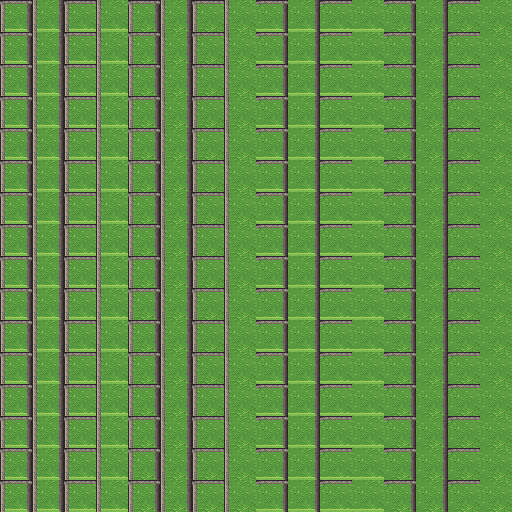
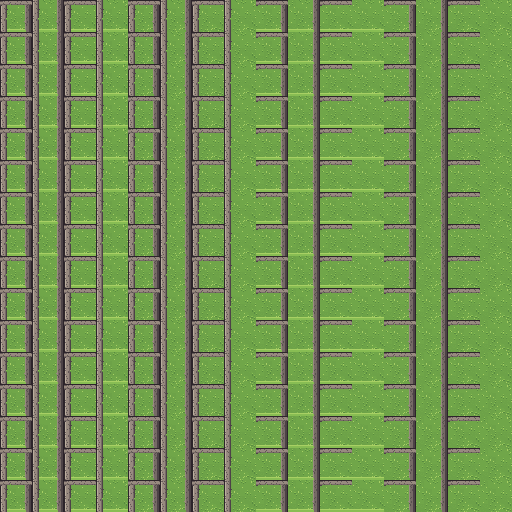
Phase 1 : lisibilité du relief, falaises rocheuses, effets désactivables, suivi
- Herbe d'altitude teintée et rebords rocheux élargis : niveaux lisibles
- Falaises en blocs rocheux irréguliers, bords sud des plateaux aplatis
- Sous-bois en canopée dense et arbres en quinconce ; touffes et cailloux dans l'herbe
- Option --no-fx pour couper les effets d'ambiance
- Script de lancement lancer_jeu.bat, outil check_map, légende de la carte
- PROGRESS.md : choix techniques, vérifications, limites, reprise

diff --git a/PROGRESS.md b/PROGRESS.md
@@ -1,0 +1,84 @@
+# INCR-AGE — Suivi du projet
+
+**État : phase 1 (fondations) terminée côté développement, en attente de validation (rendu et sensations de jeu).**
+Titre du jeu non choisi : « INCR-AGE » est le nom du dossier, pas un titre.
+
+## Lancer et tester
+
+- Jeu : double-clic sur `lancer_jeu.bat`. Éditeur : `lancer_jeu.bat editeur`.
+- Ou à la main : Godot 4.7.2 → Importer → `project.godot` → F5.
+- Godot a été installé par `winget install GodotEngine.GodotEngine` (4.7.2 stable).
+- Contrôles : ZQSD, WASD ou flèches pour se déplacer ; molette pour zoomer ; F11 pour le plein écran ; Échap pour quitter.
+- Couper les effets d'ambiance : lancer avec `-- --no-fx`, ou passer `ambient_effects` à `false` dans `scripts/autoload/game_settings.gd`.
+
+## Choix techniques
+
+| Sujet | Choix | Raison / compromis |
+|---|---|---|
+| Moteur | Godot 4.7.2, GDScript, rendu *GL Compatibility* | Le plus portable (Web, mobile plus tard). |
+| Pixel art | Résolution logique 640 x 360, étirement `canvas_items` + `expand`, filtre *nearest*, accrochage des transformations au pixel | Rendu net à toute taille de fenêtre. |
+| Zoom | Paliers où un pixel du jeu couvre un nombre **entier** de pixels écran (720p : 3 paliers ; 1080p : 4) | Aucune déformation des pixels une fois le zoom stabilisé. |
+| Fluidité | Physique 60 Hz + interpolation physique ; la caméra se met à jour au même rythme que le héros | Mouvement lisse sur écrans > 60 Hz sans décalage héros/caméra. |
+| Carte | Fichier ASCII `data/maps/prototype.txt` (légende : `data/maps/README.md`), construit au lancement | Lisible et éditable en texte, prêt pour une génération semi-procédurale future. Compromis : la carte n'apparaît pas dans l'éditeur Godot. |
+| Transitions de sol | Auto-tuiles 8 voisins (256 variantes générées) au lieu des « terrains » Godot | Rendu maîtrisé, aucune configuration manuelle dans l'éditeur. |
+| Relief | Plateaux praticables ; falaise de 2 tuiles sous le bord sud, rebords rocheux ailleurs ; accès par escaliers | Hauteur lisible en vue 3/4, zones infranchissables nettes. |
+| Collisions | Rectangles fusionnés par rangée (eau, forêt, falaises) + bandes de 6 px sur les rebords + emprise au pied des objets | Peu de formes ; on longe les obstacles sans accrocher. |
+| Profondeur | Conteneur `Entities` trié en Y ; arbres de forêt regroupés par rangée | Le héros passe derrière les arbres, huttes et rochers. |
+| Art | 100 % procédural et original (`tools/generate_art.gd`), déterministe | Aucun asset externe ni payant ; remplaçable plus tard par de vrais sprites. |
+
+## Terminé (phase 1)
+
+- Projet Godot, Git, `.gitignore`, structure de dossiers.
+- Art provisoire : herbe (variantes, fleurs, touffes, cailloux), chemins, sable, eau, sous-bois, plateaux, falaises, escaliers, ponts, nénuphars ; héros (repos 2 images, marche 4 images, face / dos / profil) ; arbres feuillus (3), pins (2), buissons, rochers, 2 huttes, feu de camp animé, caisse, rondin, tas de bois, séchoir, menhir, totem, roseaux, papillons.
+- Carte fixe 120 x 100 conçue à la main :
+  - campement central (feu, 3 huttes, totem, caisses, rondins, bois, séchoir) ;
+  - forêts denses, rivière nord-sud avec 2 ponts, lac avec plage et îlot ;
+  - 3 plateaux rocheux avec escaliers et menhirs en points de vue ;
+  - grande prairie est (future zone de combats), prairie sud-est ;
+  - clairière ouest, étang caché au nord-ouest.
+- Vérification d'accessibilité : 4 908 des 4 915 cases praticables sont atteignables depuis le campement. Les 7 restantes sont des cases isolées par des décors, sans incidence.
+- Héros : 8 directions, accélération et freinage vifs, virage franc, orientation et animation cohérentes, ombre portée.
+- Caméra : suivi ferme avec léger regard vers l'avant, zoom molette progressif, arrêt net aux bords de la carte.
+- Ambiance : feu animé (flammes, halo, fumée), scintillement de l'eau (shader), papillons, variations de végétation. Tout se coupe via `GameSettings`.
+- Script de lancement `lancer_jeu.bat`.
+
+## Vérifications réellement effectuées
+
+- Lancement sans erreur de script ; captures d'écran en jeu de chaque région (campement, ponts, lac, plateaux, prairies, étang).
+- Déplacements scriptés : montée et descente d'escalier ; arrêt contre l'eau, la forêt, le pied de falaise et les rebords ouest, nord et est d'un plateau.
+- Mode sans effets (`--no-fx`) : lancement sans erreur.
+- 60 FPS (synchro verticale) en vue large au-dessus de la forêt, environ 7 600 nœuds.
+- **Non vérifié** : sensations de contrôle et de caméra par un humain, comportement sur écran 120/144 Hz, plein écran.
+
+## En cours
+
+- Rien. Attente de validation de la phase 1.
+
+## Problèmes connus / limites
+
+- Les diagonales (chemins, rivière, flancs des grands plateaux) gardent un aspect « en marches » dû à la grille de 32 px. Pistes : tuiles diagonales, ou forme du terrain sur une sous-grille de 16 px.
+- Petites faces de falaise en gradins aux coins des plateaux arrondis.
+- Environ 5 500 arbres en sprites : correct sur PC. Pour le Web ou le mobile, prévoir MultiMesh ou des arbres en tuiles.
+- La carte `.txt` et `props.json` ne sont pas des ressources Godot. À l'export, ajouter `*.txt, *.json` aux filtres de fichiers non-ressources.
+- Pas d'exécutable exporté : les modèles d'export Godot ne sont pas installés.
+
+## Prochaines étapes (après validation)
+
+1. Ajuster selon les retours : vitesse du héros, paliers et vitesse de zoom, densité de la forêt, couleurs.
+2. Bible, étape 0 restante : trois alliés qui suivent le héros.
+3. Étape 1 : ennemis simples, attaque, combat automatique, butin, recrutement.
+4. Plus tard : manette (les actions `move_*` et `zoom_*` sont déjà abstraites), sauvegarde.
+
+## Reprendre le travail (session suivante)
+
+1. Lire ce fichier et `git log --oneline`.
+2. Architecture :
+   - `scenes/main.tscn` : assemble `World`, `Hero`, `GameCamera`.
+   - `scenes/world/` : `world.gd` charge la carte. `scripts/world/` contient `MapData` (lecture et requêtes), `TerrainBuilder` (tuiles et collisions), `PropSpawner` (décors) et `TileIds` (disposition des atlas).
+   - `scenes/characters/hero.*`, `scenes/camera/game_camera.*`, `scenes/props/` (feu, papillon).
+   - Les futurs PNJ s'ajoutent au monde par `World.add_entity()` pour être triés en profondeur.
+3. Commandes utiles (depuis la racine, `godot` = exécutable console de Godot) :
+   - Régénérer l'art : `godot --headless --path . --script res://tools/generate_art.gd`, puis `godot --headless --path . --import`.
+   - Vérifier la carte : `godot --headless --path . --script res://tools/check_map.gd -- --preview=apercu.png`.
+   - Réesquisser la carte (**écrase les retouches manuelles**) : `godot --headless --path . --script res://tools/draft_map.gd`.
+   - Capture ou déplacement scripté : `godot --path . -- --at=58,40 --zoom=0 --walk=move_up:1.5 --capture=C:/chemin/shot.png`.
